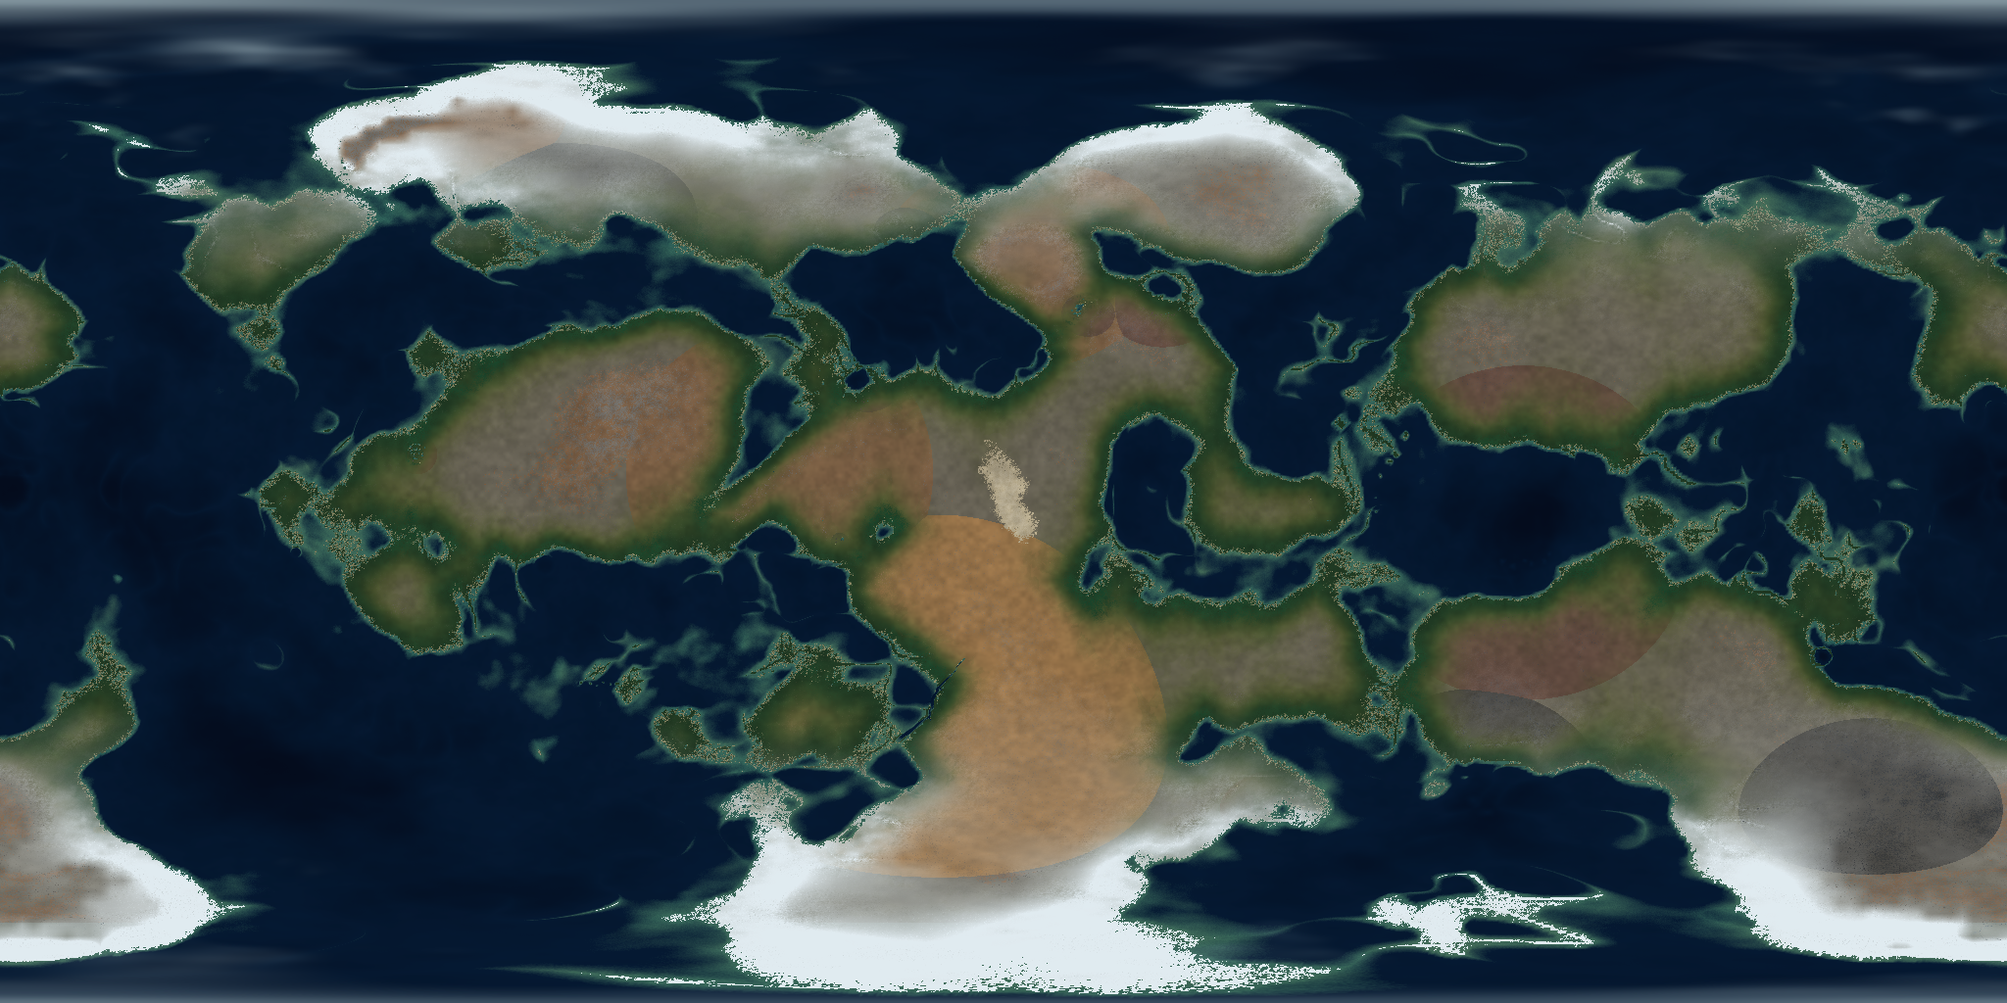
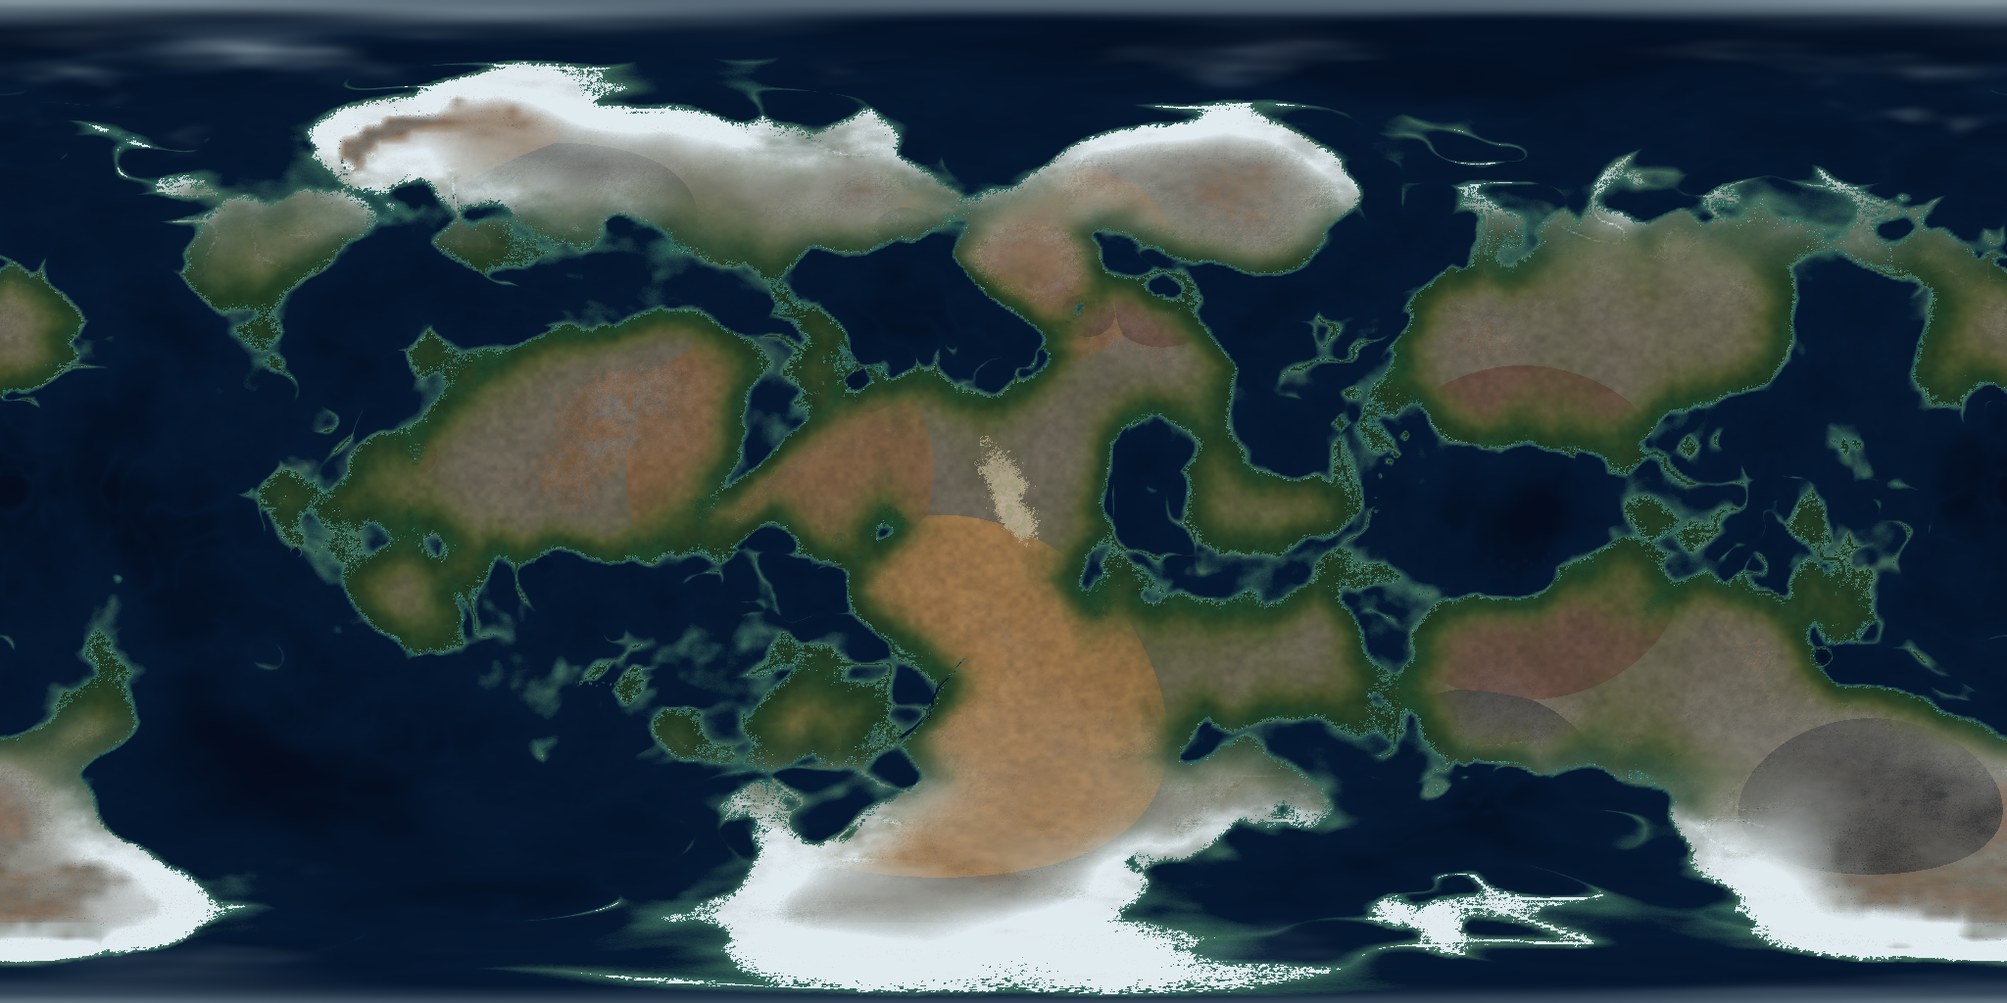
Preserve local substrate and cover in coastal materials

diff --git a/tools/worldgen-rocky/src/appearance.rs b/tools/worldgen-rocky/src/appearance.rs
@@ -173,6 +173,28 @@ fn land_roughness(vegetation: f64, exposed: f64, damp: f64, texture: f64, frost:
     .clamp(0.45, 0.98) as f32
 }
 
+/// Regional maritime eligibility, not metre-scale shoreline distance. The
+/// existing ocean-distance field is only resolved at its context-grid spacing;
+/// never turn that coarse source into a fictitious precise coast query.
+fn maritime_material_support(field: &PlanetField, sample: &TerrainSample) -> f64 {
+    let distance_m = sample.continentality01 * crate::climate::CONTINENTALITY_DISTANCE_M;
+    let spacing_m = field.ocean_context_spacing_m();
+    1.0 - smooth(spacing_m, 2.0 * spacing_m, distance_m)
+}
+
+fn beach_material_coverage(maritime: f64, sample: &TerrainSample, exposed: f64) -> f64 {
+    let unsalted = if sample.geology == Geology::Evaporite {
+        0.0
+    } else {
+        1.0 - smooth(0.0, 0.25, sample.salt01)
+    };
+    maritime
+        * (1.0 - smooth(3.0, 45.0, sample.height_m))
+        * (1.0 - smooth(0.08, 0.35, sample.slope_hint))
+        * (1.0 - exposed)
+        * unsalted
+}
+
 fn mix(a: [f64; 3], b: [f64; 3], t: f64) -> [f64; 3] {
     std::array::from_fn(|i| a[i] + (b[i] - a[i]) * t.clamp(0.0, 1.0))
 }
@@ -424,7 +446,16 @@ pub(crate) fn surface_appearance_filtered_with_normal_detail(
     let (stone, weathered_soil) = substrate_albedo(sample.geology);
     let soil = weathered_soil.map(|c| c * (1.0 + weathering * 0.18));
     let damp = smooth(0.35, 0.95, moisture);
-    let dry = soil.map(|c| c * (1.0 - damp * 0.25));
+    let mut dry = soil.map(|c| c * (1.0 - damp * 0.25));
+    // Only the bare substrate receives coastal fines and the provisional
+    // capillary rim. Apply before the existing cover layers so fractional
+    // vegetation/mud keeps the same opacity as roughness and normal response.
+    let maritime = maritime_material_support(field, sample);
+    let beach_cover = beach_material_coverage(maritime, sample, exposed);
+    let beach_albedo = weathered_soil.map(|c| c * (1.0 + cover_texture * 0.12 - damp * 0.18));
+    dry = mix(dry, beach_albedo, beach_cover);
+    let wet_rim = (1.0 - smooth(0.0, 3.0, h)) * beach_cover;
+    dry = dry.map(|c| c * (1.0 - wet_rim * 0.18));
     // The existing ecology state distinguishes canopy, ground plants and reeds.
     // Do not collapse all three into one full-coverage green paint bucket.
     // These are filtered optical cover proxies, not rendered tree geometry.
@@ -478,15 +509,6 @@ pub(crate) fn surface_appearance_filtered_with_normal_detail(
             (damp_patch * 0.5).clamp(0.0, 1.0),
         );
     }
-    // Beach is a height band, not a circular feature footprint. The band
-    // itself carries sand texture and moisture darkening so tidal flats do
-    // not render as one flat paint fill.
-    let beach_albedo = [0.66, 0.64, 0.48].map(|c| c * (1.0 + cover_texture * 0.12 - damp * 0.18));
-    color = mix(beach_albedo, color, smooth(3.0, 45.0, h));
-    // Wet-sand rim: capillary water darkens the waterline band, fading by
-    // ~3 m above datum. Visual only; heights and classification are untouched.
-    let wet_rim = 1.0 - smooth(0.0, 3.0, h);
-    color = color.map(|c| c * (1.0 - wet_rim * 0.18));
     color = color.map(|c| c * (1.0 + variation * 0.14 + regional * 0.08 + grain * 0.24));
     // Bare ground (little vegetation to carry the cover texture) gets its
     // own large-scale tonal structure so deserts and dry plains are not a
@@ -979,7 +1001,7 @@ mod shoreline_tests {
             moisture01: 0.5,
             wetland_potential01: 0.0,
             temperature_k: 285.0,
-            continentality01: 0.5,
+            continentality01: 0.0,
             eclipse_exposure01: 1.0,
         }
     }
@@ -1061,7 +1083,7 @@ mod shoreline_tests {
         let mut dry = 0.0;
         for dir in dirs(16) {
             let w = surface_appearance(&field, &land_sample(1.0), dir);
-            let d = surface_appearance(&field, &land_sample(10.0), dir);
+            let d = surface_appearance(&field, &land_sample(3.0), dir);
             wet += (w.albedo_srgb[0] + w.albedo_srgb[1] + w.albedo_srgb[2]) as f64 / 3.0;
             dry += (d.albedo_srgb[0] + d.albedo_srgb[1] + d.albedo_srgb[2]) as f64 / 3.0;
         }
@@ -1071,6 +1093,144 @@ mod shoreline_tests {
             wet < dry,
             "waterline sand darker, wet={wet:.3} dry={dry:.3}"
         );
+    }
+
+    #[test]
+    fn inland_datum_crossing_does_not_paint_a_beach_or_wet_rim() {
+        let field = field();
+        for geology in [
+            Geology::ContinentalCrust,
+            Geology::Basaltic,
+            Geology::Evaporite,
+        ] {
+            for dir in dirs(8) {
+                let mut low = land_sample(1.0);
+                low.continentality01 = 1.0;
+                low.geology = geology;
+                let mut higher = low.clone();
+                higher.height_m = 3.0;
+                higher.macro_height_m = 3.0;
+                let a = surface_appearance(&field, &low, dir);
+                let b = surface_appearance(&field, &higher, dir);
+                assert_eq!(
+                    a.albedo_srgb, b.albedo_srgb,
+                    "inland soil acquired datum-based beach/wet paint: {geology:?}"
+                );
+            }
+        }
+    }
+
+    #[test]
+    fn low_coastal_cliff_retains_exposed_geology_instead_of_sand_paint() {
+        let field = field();
+        let dir = dirs(1)[0];
+        let mut coast = land_sample(1.0);
+        coast.continentality01 = 0.0;
+        coast.moisture01 = 0.0;
+        coast.slope_hint = 0.8;
+        coast.geology = Geology::Basaltic;
+        let basalt = surface_appearance(&field, &coast, dir);
+        coast.geology = Geology::FelsicHighland;
+        let felsic = surface_appearance(&field, &coast, dir);
+        let separation = basalt
+            .albedo_srgb
+            .iter()
+            .zip(felsic.albedo_srgb)
+            .map(|(a, b)| (a - b).abs())
+            .sum::<f32>();
+        assert!(
+            separation > 0.2,
+            "low cliff geology was hidden by sand: {basalt:?} {felsic:?}"
+        );
+    }
+
+    #[test]
+    fn coastal_substrate_eligibility_rejects_inland_exposure_salt_and_steep_ground() {
+        let mut sample = land_sample(1.0);
+        let eligible = beach_material_coverage(1.0, &sample, 0.0);
+        assert!(
+            eligible > 0.99,
+            "bare gentle maritime surface can carry fines"
+        );
+        for (maritime, exposed) in [(0.0, 0.0), (1.0, 1.0)] {
+            assert_eq!(beach_material_coverage(maritime, &sample, exposed), 0.0);
+        }
+        sample.geology = Geology::Evaporite;
+        assert_eq!(beach_material_coverage(1.0, &sample, 0.0), 0.0);
+        sample.geology = Geology::Sedimentary;
+        sample.salt01 = 0.25;
+        assert_eq!(beach_material_coverage(1.0, &sample, 0.0), 0.0);
+        sample.salt01 = 0.0;
+        sample.slope_hint = 0.35;
+        assert_eq!(beach_material_coverage(1.0, &sample, 0.0), 0.0);
+    }
+
+    #[test]
+    fn maritime_and_height_eligibility_fade_endpoints_are_continuous() {
+        let field = field();
+        let spacing = field.ocean_context_spacing_m();
+        assert!((spacing - field.params.radius_m * 2.0_f64.to_radians()).abs() < 1e-8);
+        let mut sample = land_sample(1.0);
+        for ratio in [1.0, 2.0] {
+            sample.continentality01 =
+                spacing * (ratio - 1e-6) / crate::climate::CONTINENTALITY_DISTANCE_M;
+            let a = maritime_material_support(&field, &sample);
+            sample.continentality01 =
+                spacing * (ratio + 1e-6) / crate::climate::CONTINENTALITY_DISTANCE_M;
+            let b = maritime_material_support(&field, &sample);
+            assert!(
+                (a - b).abs() < 1e-8,
+                "macro coast context must not become a cell edge"
+            );
+        }
+        for h in [3.0, 45.0] {
+            sample.height_m = h - 1e-6;
+            let a = beach_material_coverage(1.0, &sample, 0.0);
+            sample.height_m = h + 1e-6;
+            let b = beach_material_coverage(1.0, &sample, 0.0);
+            assert!((a - b).abs() < 1e-8);
+        }
+        // Eligibility has no texel/page/camera input. Appearance filtering
+        // still uses the existing common physical-footprint path.
+        sample.continentality01 = 1.0;
+        assert_eq!(maritime_material_support(&field, &sample), 0.0);
+    }
+
+    #[test]
+    fn fractional_cover_attenuates_only_the_coastal_substrate_difference() {
+        let field = field();
+        let dir = dirs(1)[0];
+        let difference = |sample: &TerrainSample| {
+            let mut coast = sample.clone();
+            coast.continentality01 = 0.0;
+            let mut inland = sample.clone();
+            inland.continentality01 = 1.0;
+            // Filter out the final vegetation-dependent cover-texture gain
+            // to isolate cover opacity rather than a second optical effect.
+            let a = surface_appearance_filtered(&field, &coast, dir, 5000.0);
+            let b = surface_appearance_filtered(&field, &inland, dir, 5000.0);
+            std::array::from_fn::<_, 3, _>(|i| f64::from(a.albedo_srgb[i] - b.albedo_srgb[i]))
+        };
+        let mut sample = land_sample(1.0);
+        sample.slope_hint = 0.0;
+        sample.moisture01 = 0.4;
+        sample.temperature_k = 335.0;
+        let bare = difference(&sample);
+        assert!(bare.iter().any(|v| v.abs() > 0.01));
+        for (temperature, wetland) in [(325.0, 0.0), (315.0, 0.0), (325.0, 0.3), (315.0, 1.0)] {
+            sample.temperature_k = temperature;
+            sample.wetland_potential01 = wetland;
+            let vegetation = crate::ecology::vegetation_cover(&sample, 0.0).total();
+            let actual = difference(&sample);
+            for i in 0..3 {
+                let expected = bare[i] * (1.0 - vegetation) * (1.0 - wetland);
+                assert!(
+                    (actual[i] - expected).abs() < 1e-6,
+                    "coast must not repaint partial cover: vegetation={vegetation} wetland={wetland} actual={} expected={expected}",
+                    actual[i]
+                );
+            }
+        }
     }
 }
 

diff --git a/tools/worldgen-rocky/src/climate.rs b/tools/worldgen-rocky/src/climate.rs
@@ -265,6 +265,10 @@ pub struct ClimateDrivers {
     pub geothermal: f64,
 }
 
+/// Distance corresponding to saturated continentality. Consumers may recover
+/// the unsaturated regional ocean-distance proxy, not a local shoreline.
+pub const CONTINENTALITY_DISTANCE_M: f64 = 2_500_000.0;
+
 #[allow(clippy::too_many_arguments)]
 pub fn drivers_at(
     lat_deg: f64,
@@ -275,7 +279,7 @@ pub fn drivers_at(
     geothermal: f64,
 ) -> ClimateDrivers {
     let polar = (lat_deg.abs() / 90.0).clamp(0.0, 1.0);
-    let continentality = (ocean_dist_m / 2_500_000.0).clamp(0.0, 1.0);
+    let continentality = (ocean_dist_m / CONTINENTALITY_DISTANCE_M).clamp(0.0, 1.0);
     let elevation = (height_m.max(0.0) / 12_000.0).clamp(0.0, 1.0);
     let facing = nereid_influence(lon_deg);
     // Wetter on the facing side + near coasts, drier deep inland.

diff --git a/tools/worldgen-rocky/src/client_export.rs b/tools/worldgen-rocky/src/client_export.rs
@@ -316,6 +316,7 @@ pub fn write_client_maps(
         std::fs::write(directory.join(format!("{name}.png")), bytes).map_err(|e| e.to_string())?;
     }
     let metadata = serde_json::json!({"generator":"Thessa canonical field v10", "seed":field.params.seed,
+        "coastal_material":"regional_maritime_lithology_substrate_v1",
         "frozen_erosion_attached":field.has_frozen_erosion(),
         "regional_erosion":field.regional_erosion().iter().map(|patch| &patch.recipe).collect::<Vec<_>>(),
         "snow_cover":"annual_precipitation_depth_over_32m_source_roughness_proxy",

diff --git a/tools/worldgen-rocky/src/field.rs b/tools/worldgen-rocky/src/field.rs
@@ -320,6 +320,15 @@ impl PlanetField {
         self.context.hydrology_step_deg
     }
 
+    /// Meridional spacing of the regional ocean-distance context, in metres.
+    /// This is not the finer frozen drainage grid or a shoreline error bound.
+    pub fn ocean_context_spacing_m(&self) -> f64 {
+        (self.context.lats[1] - self.context.lats[0])
+            .to_radians()
+            .abs()
+            * self.params.radius_m
+    }
+
     pub fn regional_erosion(&self) -> &[crate::offline::RegionalErosion] {
         self.frozen_erosion
             .as_ref()

diff --git a/docs/73_COASTAL_SURFACE_MATERIALS.md b/docs/73_COASTAL_SURFACE_MATERIALS.md
@@ -1,0 +1,95 @@
+# 73 — Coastal surface material eligibility
+
+Status: implemented appearance-only correction; close-surface visual acceptance
+and precise shoreline/sediment transport remain open. Baseline: `3d8698f`.
+
+## Reproduced defect
+
+The previous land material replaced every surface below 3 m with the same
+yellow sand, fading the replacement by 45 m. A second height-only multiplier
+darkened all ground between 0 and 3 m. Neither operation required a coast,
+gentle ground or exposed sediment. Inland lowlands acquired a false beach;
+basaltic and felsic low cliffs had exactly identical albedo.
+
+The new regressions first failed against the baseline. Their original output
+is retained locally in `target/test-tmp/world-coastal-material-before.log`.
+
+## Existing sources and bounded appearance policy
+
+The correction reuses `TerrainSample` climate, geology, salinity, slope,
+ecological cover and geomorphology. It adds no height, noise, erosion,
+hydrology or vegetation subsystem, and does not change authoritative state.
+
+- Recover the regional ocean-distance proxy from continentality using the same
+  `CONTINENTALITY_DISTANCE_M` normalization as the climate producer.
+- Maritime eligibility is one within one meridional ocean-context spacing and
+  fades smoothly to zero at two spacings. For the canonical 2-degree context,
+  these distances are approximately 111.7 and 223.4 km. This is deliberately a
+  coarse regional exclusion, **not** a local coastline-distance query.
+- Retain the existing 3–45 m altitude fade only within eligible ground. Gentle
+  slopes fade from 0.08 to 0.35 rise/run; exposed substrate suppresses sediment
+  replacement continuously. Apply the coastal color to the bare substrate
+  **before** the existing vegetation, wetland, rock, salt, snow and frost
+  layers, so their partial opacity remains consistent with roughness/normals.
+- Evaporite rejects the layer; salinity fades it out by 0.25. This preserves
+  the existing playa/crust material instead of overwriting it with sand.
+- Fine material uses the existing weathered-soil palette of the local geology,
+  rather than imposing the same yellow on every coast. The existing filtered,
+  world-addressed cover texture and dampening remain in use.
+- The provisional 0–3 m, at-most-18% wet-rim darkening is multiplied by the same
+  eligibility. It no longer darkens inland lowlands outside regional maritime
+  support or exposed cliffs merely because they cross the ocean datum. Isolated
+  near-datum inland ground inside that coarse support can still receive it.
+
+These are bounded authored optical coverage priors, not a sediment inventory,
+beach formation solver, measured capillary height or physical ecology model.
+No quality tier changes the geographical predicate. The predicate has no tile,
+camera, request-order or material-texel input. Existing physical-footprint
+filtering still governs material texture bands; continuous eligibility does
+not imply that every finite-resolution material mip is pixel-identical.
+
+## Verification and limits
+
+Tests cover inland datum invariance, exposed cliff geology separation, eligible
+bare coast, partial vegetation/wetland substrate attenuation, full wetland and
+exposure rejection, salt and slope gates, and continuity at the regional and
+altitude fade endpoints. Independent review found an intermediate implementation
+still repainted fractional cover; that implementation was rejected and a
+failing regression added before moving the layer below the cover stack. The complete
+worldgen suite also covers parent/child material edges and canonical land/water
+publication. Numerical assertions are fixture-specific, not a physical coast
+accuracy envelope: the coarse context has no metre-scale shoreline bound.
+
+The submerged appearance branch, roughness model, optional normal strength,
+canonical heights, frozen erosion and water classification are unchanged in
+source. Freshly exported fallback maps consume the same correction as live pages.
+Their manifest records `coastal_material = regional_maritime_lithology_substrate_v1`.
+Rebaking also refreshes earlier material changes not yet present in the retained
+maps: a roughness PNG change alone is not evidence that this coastal correction
+changed the roughness algorithm. The normal map and regional world-layer
+descriptors remain byte-identical in this export.
+Performance checks concern page construction, not FPS or whole-client tails.
+
+The 2048×1024 export was also rebuilt from exact baseline source `3d8698f`
+in a separate target directory. That baseline-generated roughness is
+byte-identical to the new roughness; 289,512 pixels of the old retained
+roughness map were stale before this correction. Baseline-generated albedo
+also differed from the retained old map at 52,319 pixels. Comparing fresh
+baseline and fresh corrected albedo isolates this change to 45,848 pixels,
+with mean absolute channel difference 0.77334/255 and maximum 120/255.
+These are texture-difference diagnostics, not accuracy or preference scores.
+
+Local verification passed workspace formatting, all-target/all-feature Clippy,
+the architecture guard, 1,988 workspace lib/bin and 98 integration tests, plus
+8 terrain-environment ignored hardware tests and a separate 8-test terrain
+hardware target. The required legacy Bevy ignored command matched zero tests;
+the real hardware coverage was in the renderer targets. The existing serial
+512-page workload observed 65.267 s total, p50 117.241 ms and p95 203.359 ms;
+baseline observations were collected under different concurrent load and do
+not support a speedup claim. Exact logs, fallback comparison and limitations:
+[`artifacts/coastal-surface-materials-2026-10-21.json`](artifacts/coastal-surface-materials-2026-10-21.json).
+
+Remaining work: a numerically surveyed real coastal 2×2 km acceptance site,
+fixed 50 m/2 m AGL captures, finer runoff-derived relief, stable scatter,
+and production vegetation/rock consumers. Neither this correction nor a
+preferred survey image establishes natural surface geometry or visual parity.

diff --git a/docs/00_STATUS.md b/docs/00_STATUS.md
@@ -93,6 +93,7 @@ do not update in place).
 | `67_NATIVE_SYSTEM_MAP.md` | 🟡 native map/navigation slice | six baked scopes, f64 framing/orbit/pan/zoom, body/PRIMARY selection/follow, cached Kepler curves, physics-JIT coast-cache consumer sharing execution guards and bounded interval, dominant-body Ap/Pe/escape/local-wake readouts, exclusive input ownership, shared-device egui and headless capture | powered/live executable JIT futures (never substituted with conditional coasts), remote JIT/next-wake transport, richer celestial appearance and independent usability/platform acceptance |
 | `68_NATIVE_NIGHT_LIGHTS.md` | 🟡 native primary-terrain optical slice | direct retained inhabited-land mask producer, resolved Low/Medium/High budgets, cached startup-only bake/upload, regular/conforming shared primary emission and zero-work disable; CPU parity and hardware numerical/source tests | calibrated radiance/activity, multi-source illumination/eclipses, secondary-ray emission and whole-frame visual/temporal acceptance |
 | `69_NATIVE_TERRAIN_MATERIAL_LIGHTING.md` | 🟡 primary terrain normal/sky-reflection slice | optional RG8 material normals through shared native residency, metric-correct cube-sphere gradients and slope blending, bounded substrate/exposure/cover response and small geology-linked roughness priors, resolved disable/+2/+1/+0 mip tiers and raster Lambert oracle; shared sky/cloud rough GGX with resolved 4/8/16 clear directions or 1/2/4 cloud columns; regular/conforming reflection oracles and scoped GPU diagnostic | calibrated natural substrate relief/strata, vegetation, general HDR/cloud quadrature error/convergence, primary scene-object reflections and close-up/visual/platform acceptance |
+| `73_COASTAL_SURFACE_MATERIALS.md` | 🟡 coastal optical eligibility correction | existing coarse maritime context, slope/exposure/cover/salinity gate the low-altitude sediment and wet rim; weathered local geology replaces universal yellow sand; failing-before inland/cliff regressions | precise shoreline/sediment availability, fine relief, actual close-surface and independent visual acceptance |
 
 The 2026-10-20 native plume stage passed all 27 local command gates, including
 workspace/feature-off and actual GPU suites. Of 607 tracked test inputs, 606

diff --git a/docs/69_NATIVE_TERRAIN_MATERIAL_LIGHTING.md b/docs/69_NATIVE_TERRAIN_MATERIAL_LIGHTING.md
@@ -468,6 +468,11 @@ identities across density/LOD tiers, participate in shared shadows, and avoid
 duplicating the existing deterministic scatter descriptors. These are follow-up
 tasks, not implemented vegetation, new collision relief, hex-tiling, or POM.
 
+The subsequent [coastal eligibility correction](73_COASTAL_SURFACE_MATERIALS.md)
+reuses those sources to stop height-only sand/wet paint from masking inland
+lowlands and exposed cliffs. It changes optical coverage, not substrate relief
+or vegetation geometry; the maritime source is explicitly regional/coarse.
+
 In particular, the current `scatter::scatter_distribution` is tile-seeded and
 changes its grid with requested density. Identical inputs are deterministic,
 but a different tile level/density is **not** a stable subset of the same
